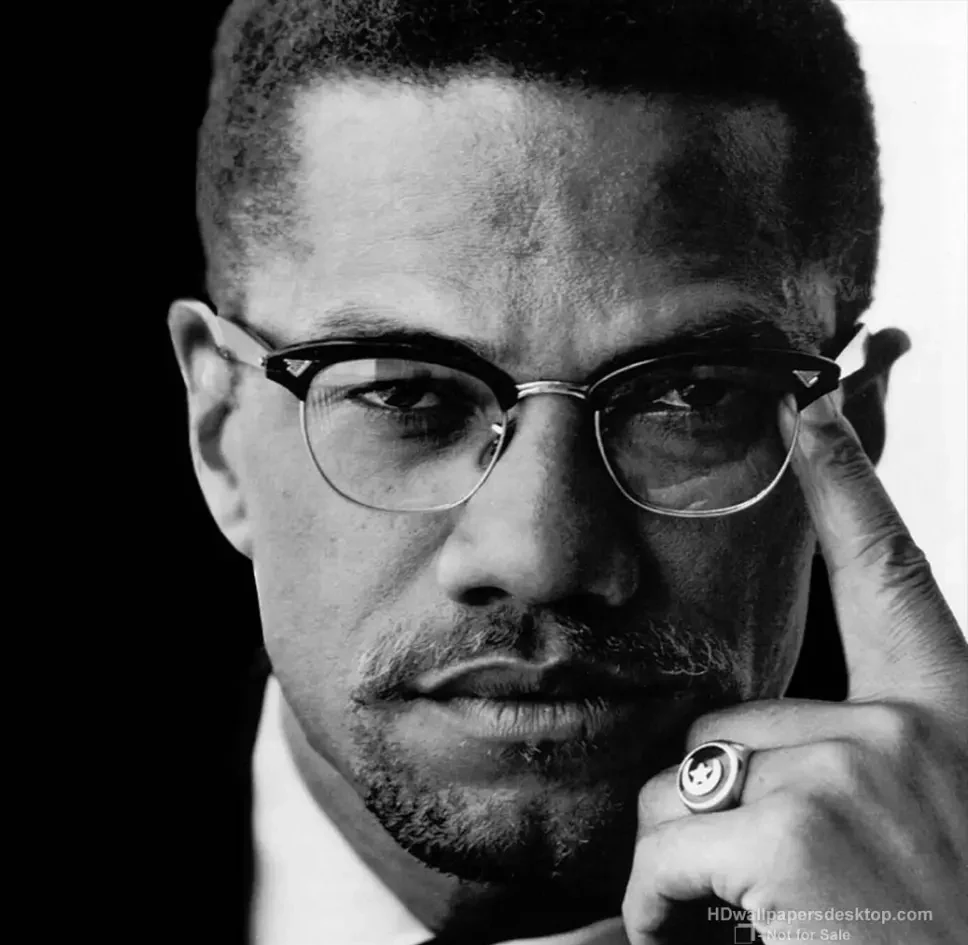
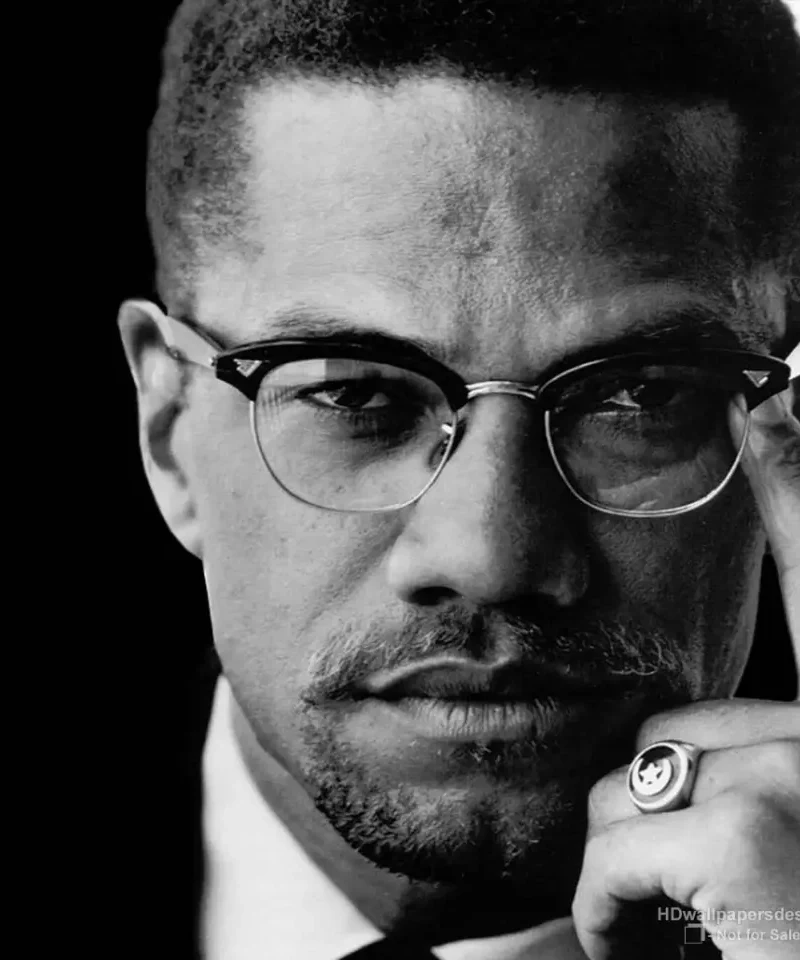
Orchids run changes (2026-04-14T17:10:28.264Z)

diff --git a/person-malcolm-x.html b/person-malcolm-x.html
@@ -19,7 +19,7 @@
 
     /* hero — deep crimson/charcoal */
     .person-hero{background:linear-gradient(135deg,#0c0505 0%,#3b0a0a 50%,#7f1d1d 100%);padding:var(--space-16) 0 var(--space-14);position:relative;overflow:hidden}
-    .person-hero__bg-img{position:absolute;inset:0;background-image:url('images/malcolm-x-portrait.webp');background-size:cover;background-position:center 15%;opacity:0.12;filter:saturate(0.3) brightness(0.7);pointer-events:none}
+    .person-hero__bg-img{position:absolute;inset:0;background-image:url('images/malcolm-x-portrait.webp?v=2');background-size:cover;background-position:center 15%;opacity:0.12;filter:saturate(0.3) brightness(0.7);pointer-events:none}
     .person-hero::before{content:'';position:absolute;inset:0;background:radial-gradient(ellipse 60% 80% at 100% 0%,rgba(185,28,28,.20) 0%,transparent 60%),radial-gradient(ellipse 40% 50% at 0% 100%,rgba(0,0,0,.40) 0%,transparent 65%);pointer-events:none}
     .person-hero::after{content:'';position:absolute;inset:0;background-image:repeating-linear-gradient(0deg,rgba(185,28,28,.03) 0,rgba(185,28,28,.03) 1px,transparent 0,transparent 28px),repeating-linear-gradient(90deg,rgba(185,28,28,.03) 0,rgba(185,28,28,.03) 1px,transparent 0,transparent 28px);background-size:28px 28px;pointer-events:none}
 
@@ -175,8 +175,8 @@
     <div class="person-hero__inner">
       <div class="person-avatar">
         <picture>
-          <source type="image/webp" srcset="images/malcolm-x-portrait.webp" />
-          <img src="images/malcolm-x-portrait.webp" alt="Malcolm X — black and white portrait, glasses raised to temple, c. 1964" width="968" height="945" fetchpriority="high" />
+          <source type="image/webp" srcset="images/malcolm-x-portrait.webp?v=2" />
+          <img src="images/malcolm-x-portrait.webp?v=2" alt="Malcolm X — black and white portrait, glasses raised to temple, c. 1964" width="800" height="960" fetchpriority="high" style="object-position:center top" />
         </picture>
         <span class="person-avatar__caption">Malcolm X, c. 1964</span>
       </div>